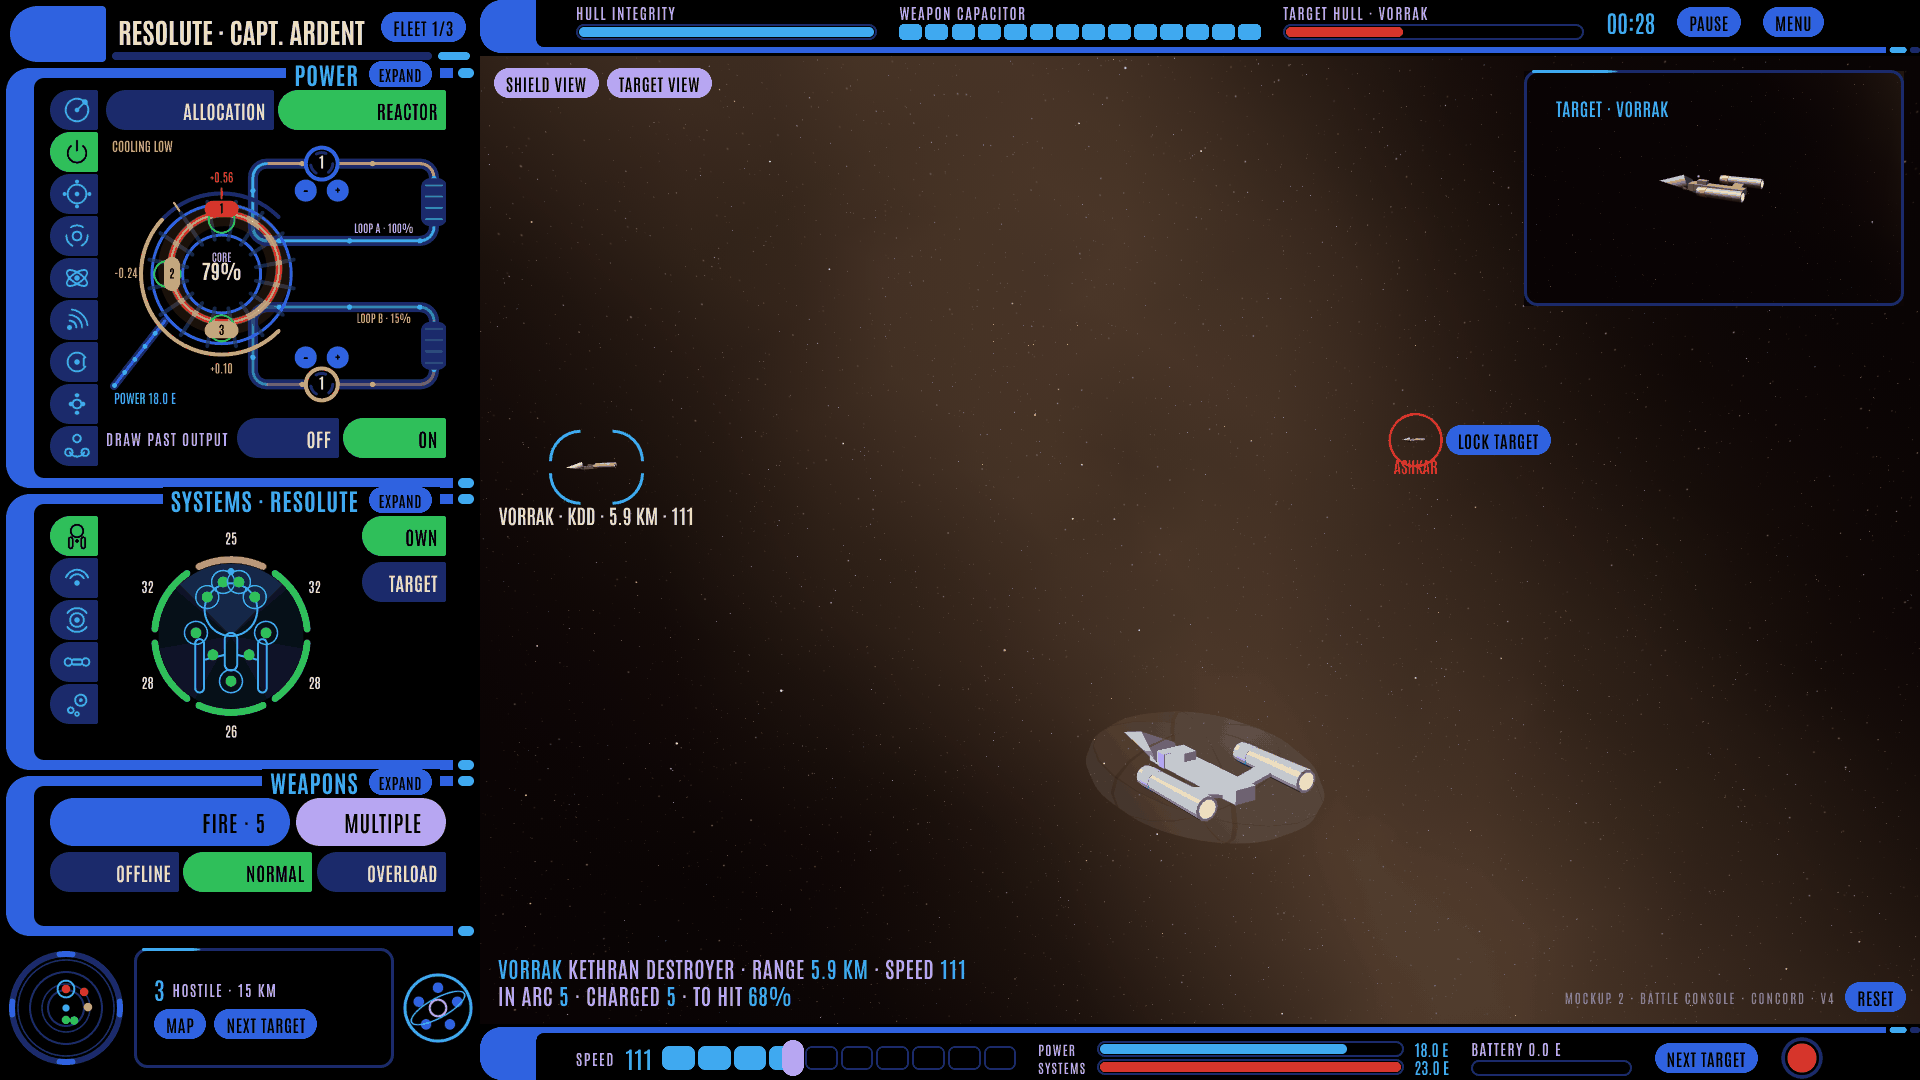
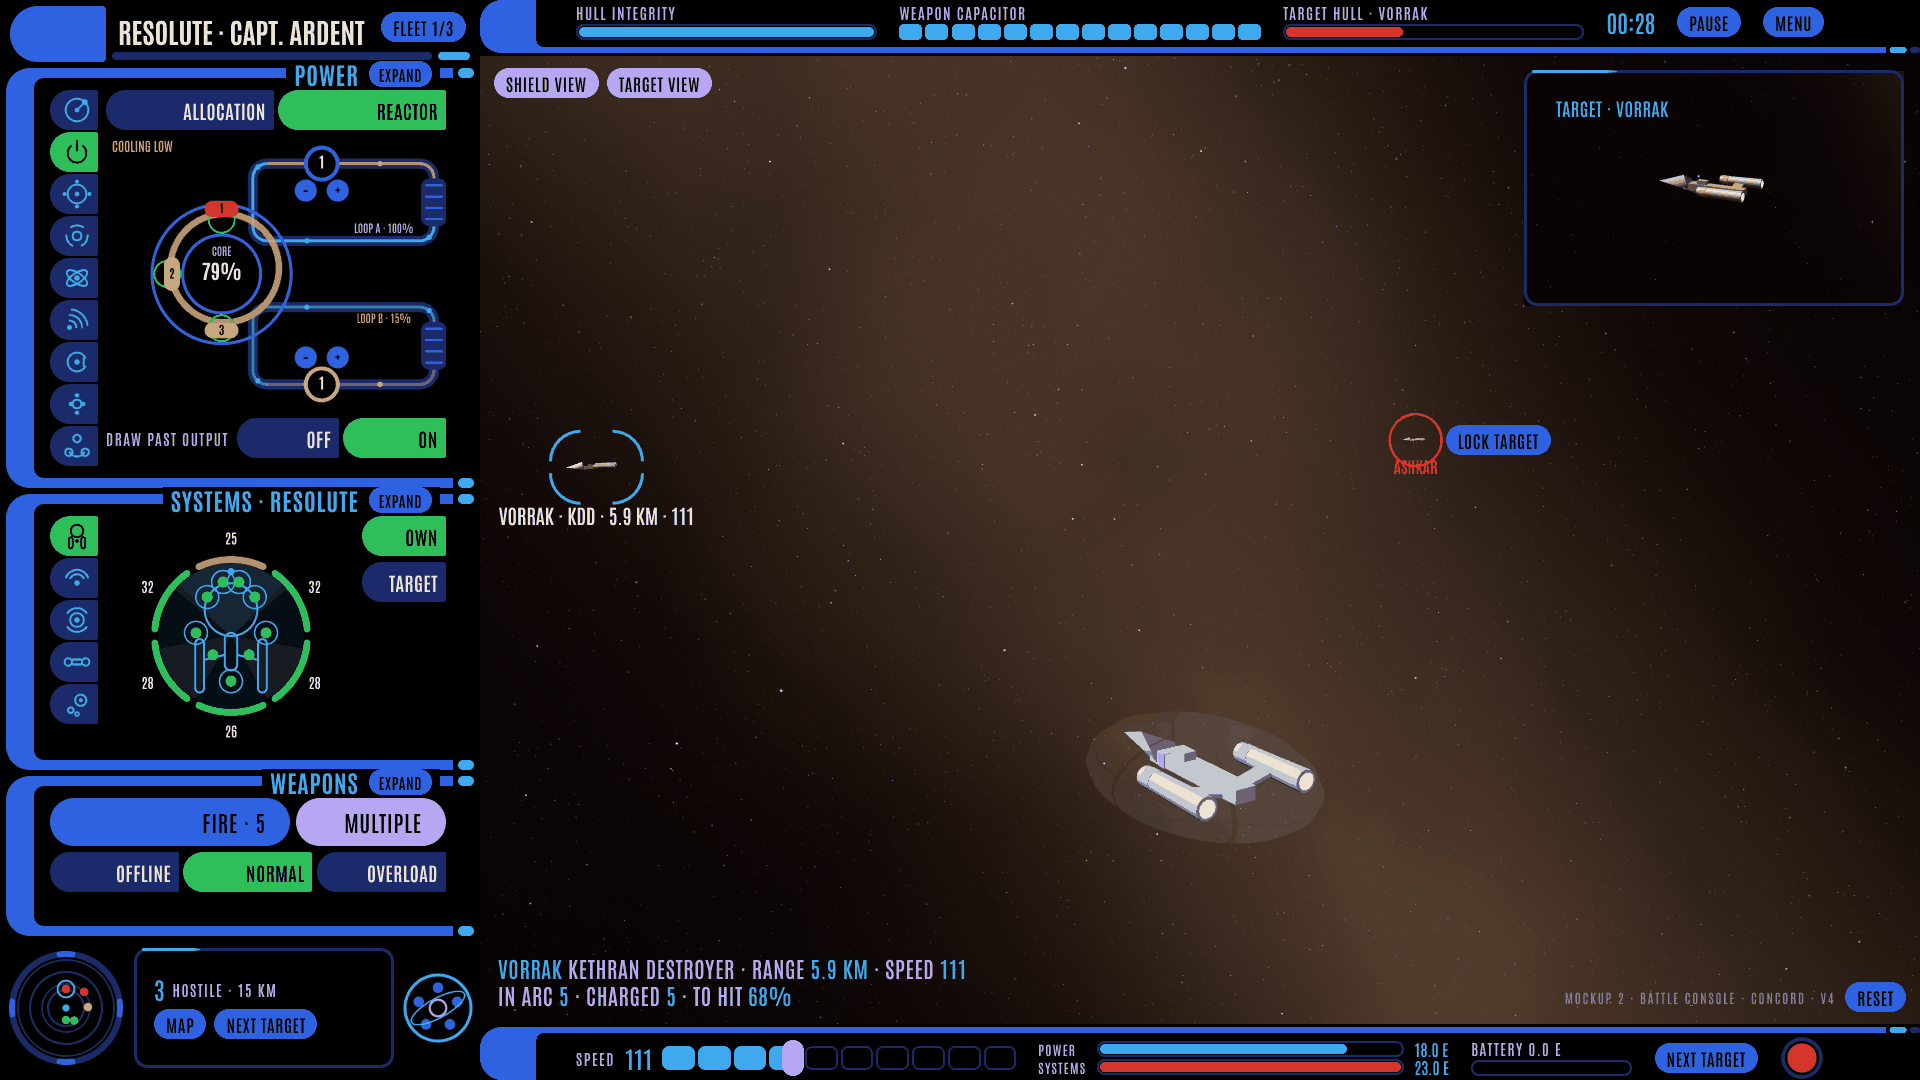
Reactor diagram simplified: core, coils, loops, warnings only
Owner: "simpler please!". Removed the field-coil cage, the temperature dial,
wall sparks, the power bus, pump impellers and radiator glow; fewer beads; coil
values only while pointed at.

Claude-Session: https://claude.ai/code/session_01RGPQuqAYNNJKpzbbbZ3BfB

Changed region(s): [[0.0625, 0.1528, 0.1562, 0.3972], [0.5938, 0.7028, 0.625, 0.7333]]

diff --git a/docs/mockups/battle-console.html b/docs/mockups/battle-console.html
@@ -1374,10 +1374,6 @@ function reactorDiagram(w, h, big) {
     if (!c.isConnected) return;
     const s = W.player, rx = s.reactor, t = performance.now() / 1000, tc = heatCol(rx.temp);
     x.setTransform(2, 0, 0, 2, 0, 0); x.clearRect(0, 0, w, h); x.lineCap = 'round'; x.lineJoin = 'round';
-    // The power bus: output leaving the vessel, in Power's blue, beads at the output.
-    const bp = bus(); x.lineWidth = 8 * k; x.strokeStyle = CC.deep; path(bp); x.stroke(); x.lineWidth = 3 * k; x.strokeStyle = CC.signal; path(bp); x.stroke();
-    x.fillStyle = CC.sky; const nb = Math.max(1, Math.round(output(s) / 4)); for (let m = 0; m < nb; m++) { const [bx, by] = along(bp, m / nb + t * 0.25); x.beginPath(); x.arc(bx, by, 2.4 * k, 0, 2 * P); x.fill(); }
-    label(`POWER ${output(s).toFixed(1)} E`, 8 * k, h - 8 * k, CC.sky, 'left', 13);
     // Coolant loops.
     rx.loops.forEach((l, j) => {
       const g = loopGeom(j), [px, py] = g.pump, [qx, qy] = g.rad, sgn = g.s, closed = [...g.pts, g.pts[0]];
@@ -1388,7 +1384,7 @@ function reactorDiagram(w, h, big) {
         const hot = g.pts.slice(0, g.hotEnd + 1), cold = [...g.pts.slice(g.hotEnd), g.pts[0]];
         x.globalAlpha = l.hp < 0.5 ? 0.55 : 0.85; x.lineWidth = 3 * k;
         x.strokeStyle = tc; path(hot); x.stroke(); x.strokeStyle = CC.sky; path(cold); x.stroke(); x.globalAlpha = 1;
-        const n = 4 + l.flow * 3, speed = l.flow * 0.045;
+        const n = 2 + l.flow * 2, speed = l.flow * 0.045;
         for (let m = 0; m < n; m++) {
           const f = (((m / n + t * speed) % 1) + 1) % 1, [bx, by] = along(closed, f);
           x.fillStyle = f < g.hotEnd / g.pts.length ? tc : CC.sky; x.beginPath(); x.arc(bx, by, 2.6 * k, 0, 2 * P); x.fill();
@@ -1397,13 +1393,11 @@ function reactorDiagram(w, h, big) {
       // Radiator: a fin bank on the far side of the loop, glowing with the heat it sheds.
       const shed = clamp(l.flow * l.hp * rx.temp / 250, 0, 1), rh = Math.abs(g.yO - g.yI) * 0.62;
       x.fillStyle = CC.deep; x.beginPath(); x.roundRect(qx - 13 * k, qy - rh / 2, 26 * k, rh, 9 * k); x.fill();
-      for (let f = 0; f < 4; f++) { x.strokeStyle = l.hp <= 0 ? CC.alert : shed > 0.6 ? CC.caution : CC.sky; x.globalAlpha = 0.35 + 0.65 * shed; x.lineWidth = 2 * k; const fy = qy - rh / 2 + 7 * k + f * (rh - 14 * k) / 3; x.beginPath(); x.moveTo(qx - 8 * k, fy); x.lineTo(qx + 8 * k, fy); x.stroke(); }
+      for (let f = 0; f < 4; f++) { x.strokeStyle = l.hp <= 0 ? CC.alert : CC.signal; x.globalAlpha = 1; x.lineWidth = 2 * k; const fy = qy - rh / 2 + 7 * k + f * (rh - 14 * k) / 3; x.beginPath(); x.moveTo(qx - 8 * k, fy); x.lineTo(qx + 8 * k, fy); x.stroke(); }
       x.globalAlpha = 1; if (big) label('RADIATOR', qx - 18 * k, qy + 4 * k, CC.lilac, 'right');
       // Pump: a ring on the outer side with an impeller turning at the flow, its flow in the middle.
       const pc = l.hp <= 0 ? CC.alert : l.hp < 0.5 ? CC.caution : CC.signal, hv = hover && hover.pump === j;
       x.fillStyle = '#000'; x.strokeStyle = pc; x.lineWidth = (hv ? 5 : 4) * k; x.beginPath(); x.arc(px, py, 16 * k, 0, 2 * P); x.fill(); x.stroke();
-      const spin = t * l.flow * 2.2 * (l.hp > 0 ? 1 : 0) * -sgn; x.strokeStyle = CC.deep; x.lineWidth = 3 * k;
-      for (let m = 0; m < 3; m++) { const a = spin + m * 2 * P / 3; x.beginPath(); x.arc(px, py, 11 * k, a, a + 0.9); x.stroke(); }
       x.fillStyle = CC.text; x.font = `700 ${15 * k}px Antonio`; x.textAlign = 'center'; x.fillText(String(l.flow), px, py + 5 * k);
       label(`LOOP ${'AB'[j]} · ${l.hp <= 0 ? 'OFFLINE' : pct(l.hp)}`, (px + qx) / 2 + 6 * k, g.yI + sgn * 12 * k + 4 * k, l.hp <= 0 ? CC.alert : l.hp < 0.5 ? CC.caution : CC.lilac);
       for (const [bx, by, d] of keysAt(j)) {
@@ -1412,28 +1406,17 @@ function reactorDiagram(w, h, big) {
         x.fillStyle = '#000'; x.font = `700 ${16 * k}px Antonio`; x.textAlign = 'center'; x.fillText(d < 0 ? '−' : '+', bx, by + 5.5 * k);
       }
     });
-    // The temperature dial round the vessel, open on the right where the pipes leave: 0-120 %, clockwise from the lower
-    // right, ticks at the warning (85) and the limit (100).
-    const g0 = P * 0.25, gs = P * 1.5, gr = R + 11 * k, gv = clamp(rx.temp / 120, 0, 1);
-    x.lineWidth = 4 * k; x.strokeStyle = CC.deep; x.beginPath(); x.arc(cx, cy, gr, g0, g0 + gs); x.stroke();
-    x.strokeStyle = tc; x.beginPath(); x.arc(cx, cy, gr, g0, g0 + gs * gv); x.stroke();
-    for (const [v2, col] of [[85, CC.caution], [100, CC.alert]]) { const a = g0 + gs * v2 / 120; x.strokeStyle = col; x.lineWidth = 2 * k; x.beginPath(); x.moveTo(cx + Math.cos(a) * (gr - 5 * k), cy + Math.sin(a) * (gr - 5 * k)); x.lineTo(cx + Math.cos(a) * (gr + 5 * k), cy + Math.sin(a) * (gr + 5 * k)); x.stroke(); }
     // The vessel: outer and inner walls, the field-coil cage, the plasma in the channel.
     x.lineWidth = 3 * k; x.strokeStyle = CC.signal; x.beginPath(); x.arc(cx, cy, R, 0, 2 * P); x.stroke(); x.beginPath(); x.arc(cx, cy, Ri, 0, 2 * P); x.stroke();
-    x.strokeStyle = CC.deep; x.lineWidth = 4 * k; x.globalAlpha = 0.7;
-    for (let m = 0; m < 16; m++) { const a = m * P / 8 + P / 16; x.beginPath(); x.moveTo(cx + Math.cos(a) * (Ri - 4 * k), cy + Math.sin(a) * (Ri - 4 * k)); x.lineTo(cx + Math.cos(a) * (R + 4 * k), cy + Math.sin(a) * (R + 4 * k)); x.stroke(); }
-    x.globalAlpha = 1;
     const off = rx.coils.reduce(([ax, ay], o, i) => [ax + Math.cos(coilDir(i)) * o, ay + Math.sin(coilDir(i)) * o], [0, 0]), offN = Math.hypot(off[0], off[1]);
     const ox = off[0] * chan * 0.42, oy = off[1] * chan * 0.42, pulse = rx.melt > 0 ? 0.55 + 0.45 * Math.sin(t * 9) : 0.85 + 0.15 * Math.sin(t * 2.3);
     x.save(); x.beginPath(); x.arc(cx, cy, R - 1.5 * k, 0, 2 * P); x.arc(cx, cy, Ri + 1.5 * k, 0, 2 * P, true); x.clip();
-    x.globalAlpha = 0.16 * pulse; x.strokeStyle = tc; x.lineWidth = chan * 0.8; x.beginPath(); x.arc(cx + ox, cy + oy, mid, 0, 2 * P); x.stroke();
+    x.strokeStyle = tc;
     x.globalAlpha = 0.95 * pulse; x.lineWidth = chan * 0.22; x.beginPath(); x.arc(cx + ox, cy + oy, mid, 0, 2 * P); x.stroke();
-    x.globalAlpha = 1; x.strokeStyle = '#fff'; x.lineWidth = 1.2 * k; x.globalAlpha = 0.6 * pulse; x.beginPath(); x.arc(cx + ox, cy + oy, mid, 0, 2 * P); x.stroke(); x.globalAlpha = 1; x.restore();
-    // Wall contact: the plasma pushed far enough to scrape the vessel sparks red where it touches.
-    if (offN > 0.3) { const a = Math.atan2(off[1], off[0]); x.strokeStyle = CC.alert; x.lineWidth = 4 * k; x.globalAlpha = 0.5 + 0.5 * Math.sin(t * 14); x.beginPath(); x.arc(cx, cy, R, a - 0.35, a + 0.35); x.stroke(); x.globalAlpha = 1; }
+    x.globalAlpha = 1; x.restore();
     // Centre: temperature, the word CORE.
     x.fillStyle = rx.temp >= 85 ? CC.alert : CC.text; x.textAlign = 'center'; x.font = `700 ${(big ? 26 : 20) * k / (big ? 1.25 : 1)}px Antonio`; x.fillText(`${Math.round(rx.temp)}%`, cx, cy + 6 * k);
-    label('CORE', cx, cy - 12 * k);
+    label('CORE', cx, cy - 18 * k);
     // Confinement coils: a short track across the vessel, a green ring where each belongs, the coil numbered on its face.
     for (let i = 0; i < REACTOR.coils; i++) {
       const a = coilDir(i), mx = cx + Math.cos(a) * mid, my = cy + Math.sin(a) * mid, [qx, qy] = coilAt(i), o = rx.coils[i], ao = Math.abs(o);
@@ -1442,7 +1425,7 @@ function reactorDiagram(w, h, big) {
       x.save(); x.translate(qx, qy); x.rotate(a + P / 2); x.fillStyle = col; x.beginPath(); x.roundRect(-17 * k, -8 * k, 34 * k, 16 * k, 8 * k); x.fill();
       if (act) { x.strokeStyle = CC.text; x.lineWidth = 2 * k; x.stroke(); }
       x.rotate(-(a + P / 2)); x.fillStyle = '#000'; x.font = `700 ${12 * k}px Antonio`; x.textAlign = 'center'; x.fillText(String(i + 1), 0, 4.5 * k); x.restore();
-      const vr = R + 26 * k; if (act || ao >= 0.1) label(`${o >= 0 ? '+' : ''}${o.toFixed(2)}`, cx + Math.cos(a) * vr, cy + Math.sin(a) * vr + 4 * k, col, 'center', 12);
+      const vr = R + 22 * k; if (act) label(`${o >= 0 ? '+' : ''}${o.toFixed(2)}`, cx + Math.cos(a) * vr, cy + Math.sin(a) * vr + 4 * k, col, 'center', 12);
     }
     // The meltdown clock, across the top.
     if (rx.melt > 0) { x.fillStyle = CC.alert; x.globalAlpha = 0.6 + 0.4 * Math.sin(t * 9); x.font = `700 ${15 * k}px Antonio`; x.textAlign = 'left'; x.fillText(`MELTDOWN IN ${Math.ceil(REACTOR.meltdown_s - rx.melt)} S`, 6, 16 * k); x.globalAlpha = 1; }

diff --git a/openspec/changes/reactor/design.md b/openspec/changes/reactor/design.md
@@ -36,25 +36,19 @@ brown out.
 ## The screen (Concord skin)
 
 - **The reactor diagram** (owner, 2026-11-01: "I want like an actual diagram of the nuclear reactor and be able to like
-  interact with it", "please improve that diagram of a reactor", "the loop a and loop b should look like loops"), a
-  schematic in Concord's flat hand:
-  - **The vessel**: outer and inner walls with a cage of sixteen field coils across the channel, the plasma ring glowing
-    in it by temperature (Sky, amber from 65 %, red from 85 %; pulsing while the meltdown clock runs) and pushed off
-    centre by the coils' misalignment; past 0.3 it scrapes the wall, which sparks red where it touches. CORE and the
-    temperature in the middle.
-  - **The temperature dial** round the vessel, 0-120 %, open on the right where the loops leave, ticks at 85 and 100.
-  - **Confinement coils** (1 top, 2 left, 3 bottom) across the channel, numbered on their faces, each with a green ring
-    where it belongs; the captain **drags a coil onto its ring**; its value shows outside the dial while it is off.
-  - **Coolant loops**: each a closed rounded circuit whose inner side runs through the vessel, out along the outer side
-    through the pump, round the radiator on the far side and back. Coolant is hot (coloured by the core) from the
-    vessel to the radiator and Sky after it; beads move round the loop at its flow. The pump's impeller turns at the
-    flow, the flow in its middle, **minus and plus** inside the loop beside it. Amber when the loop is damaged, a broken
-    red line when offline. The radiator's fins glow with the heat it sheds.
-  - **The power bus** leaves the vessel to the lower left, in Power's blue, beads at the output, POWER and the output.
-  - **Warnings** in the corner: COOLING LOW under 1.5 cooling, MELTDOWN IN n S flashing while the clock runs.
-  - Docked it is 348 x 276 px (the output and temperature rows are in the diagram); expanded it is drawn large beside
-    the same controls as numbers. Checked headless: dragging coil 1 from +0.56 onto its ring sets it to 0.00; plus on
-    loop A raises its flow from 1 to 2.
+  interact with it", then "please improve that diagram", "the loop a and loop b should look like loops", and "simpler
+  please!"). Only what the captain acts on:
+  - **The core**: the vessel's two walls and the plasma ring between them, coloured by temperature (Sky, amber from
+    65 %, red from 85 %; pulsing while the meltdown clock runs) and pushed off centre by the coils' misalignment; CORE
+    and the temperature in the middle.
+  - **Three coils** (1 top, 2 left, 3 bottom), numbered, each with a green ring where it belongs: **drag a coil onto its
+    ring**. Its value shows while it is pointed at or dragged.
+  - **Two coolant loops**, each a closed circuit through the core: out past the pump, round the radiator, back. Hot
+    (core-coloured) out, Sky back, a few beads moving at the flow. The pump shows its flow, with **minus and plus**
+    beside it. Amber when damaged, a broken red line when offline.
+  - **Warnings** in the corner: COOLING LOW, or MELTDOWN IN n S flashing.
+  - Docked 348 x 276 px; expanded, drawn large beside the same controls as numbers. Checked headless: dragging coil 1
+    from +0.56 onto its ring sets it to 0.00; plus on loop A raises its flow from 1 to 2.
 - **Reactor mode**: output and efficiency; the core temperature bar (warning from 85 %, and the meltdown countdown in
   its label); three coil gauges (a track, a centre mark, a green safe band of 0.1, a dot green, amber or red by
   misalignment) with minus and plus keys and the value; two coolant loops as five flow boxes each with the loop's

diff --git a/mockup-work.md b/mockup-work.md
@@ -127,7 +127,8 @@ nuclear reactor and be able to like interact with it": the Reactor mode is now a
 loops, worked by dragging the coils home and pressing minus and plus on the pumps. Then: "please improve that diagram of a reactor", "the
 loop a and loop b should look like loops i think", "it would make more sense": the diagram redrawn as a schematic (a
 vessel with a field-coil cage and the plasma in its channel, a temperature dial, wall contact, closed coolant loops
-running through the vessel with hot and cold legs, turning pumps, glowing radiators, the power bus).
+running through the vessel with hot and cold legs, turning pumps, glowing radiators, the power bus). Then: "simpler please!": only the core,
+the three coils, the two loops with their pumps and radiators, and the warnings.
 
 ## 3. Look dev
 
